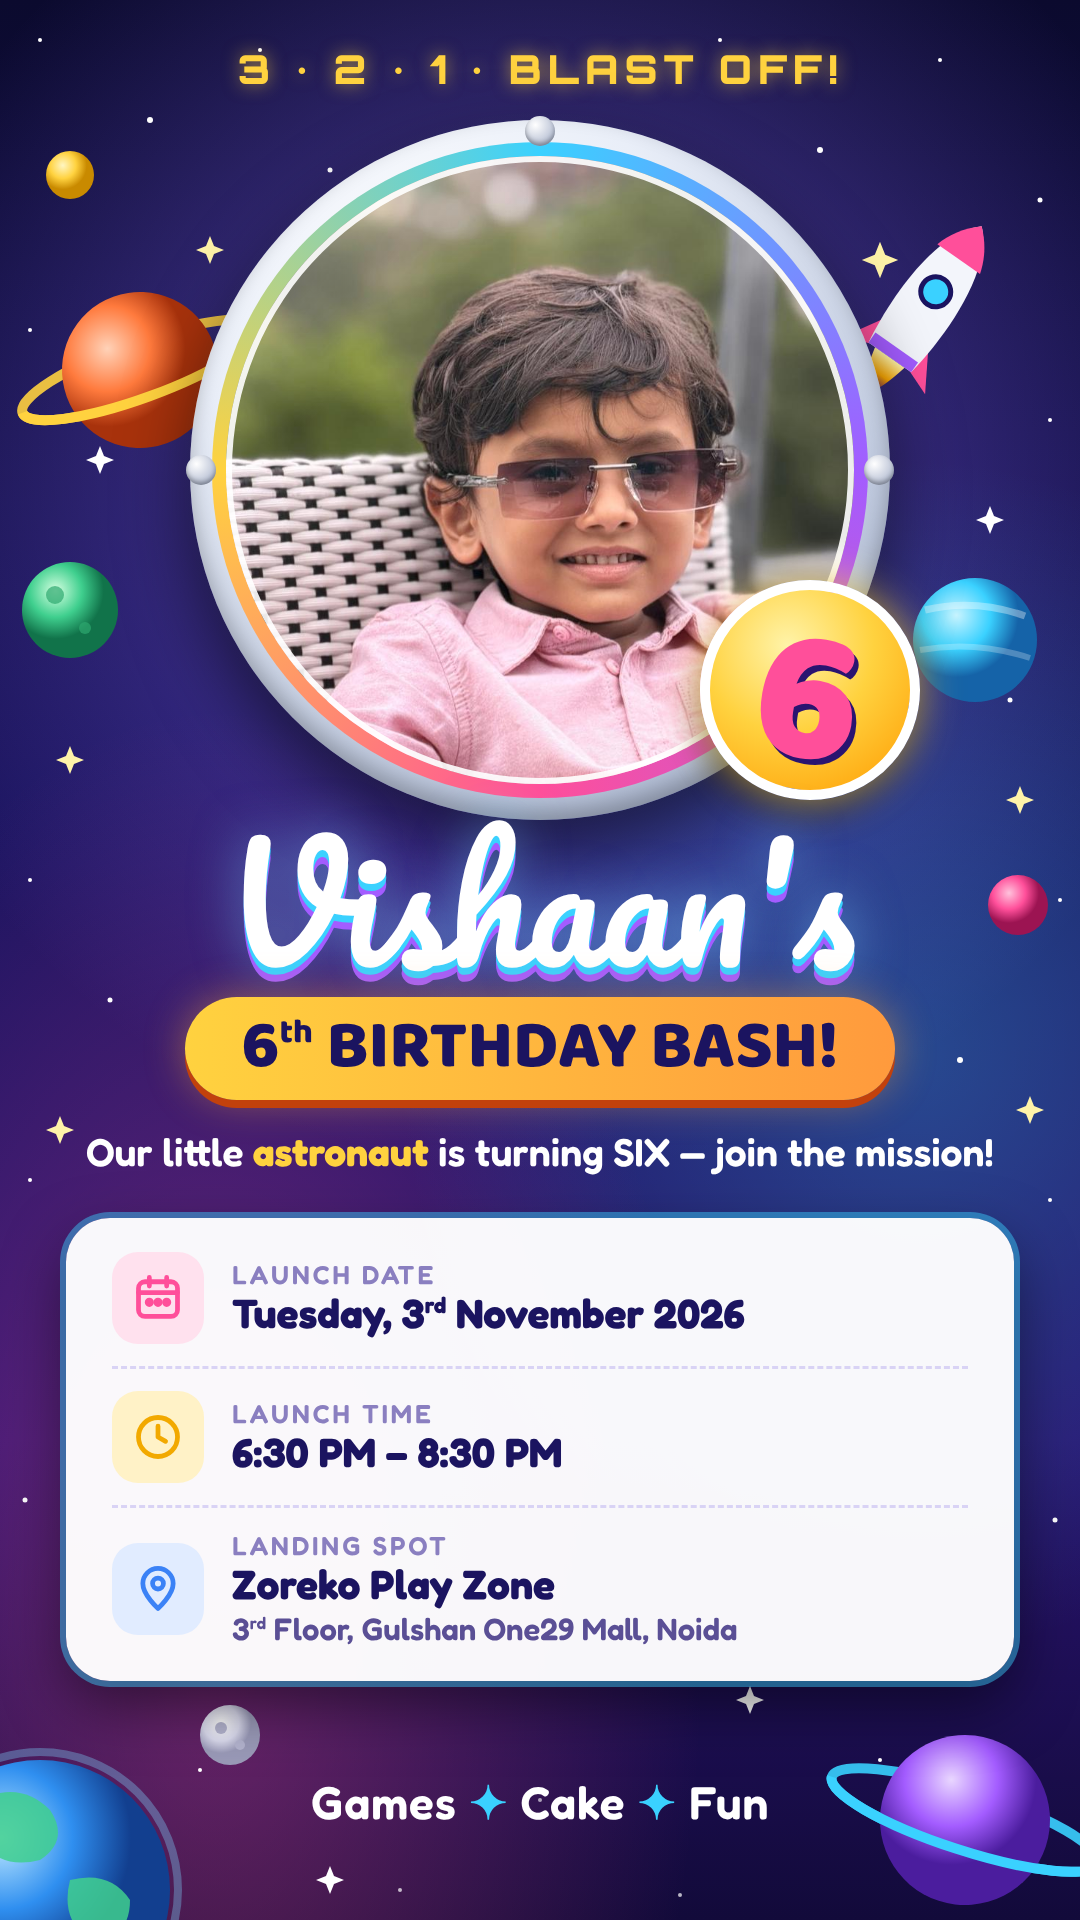
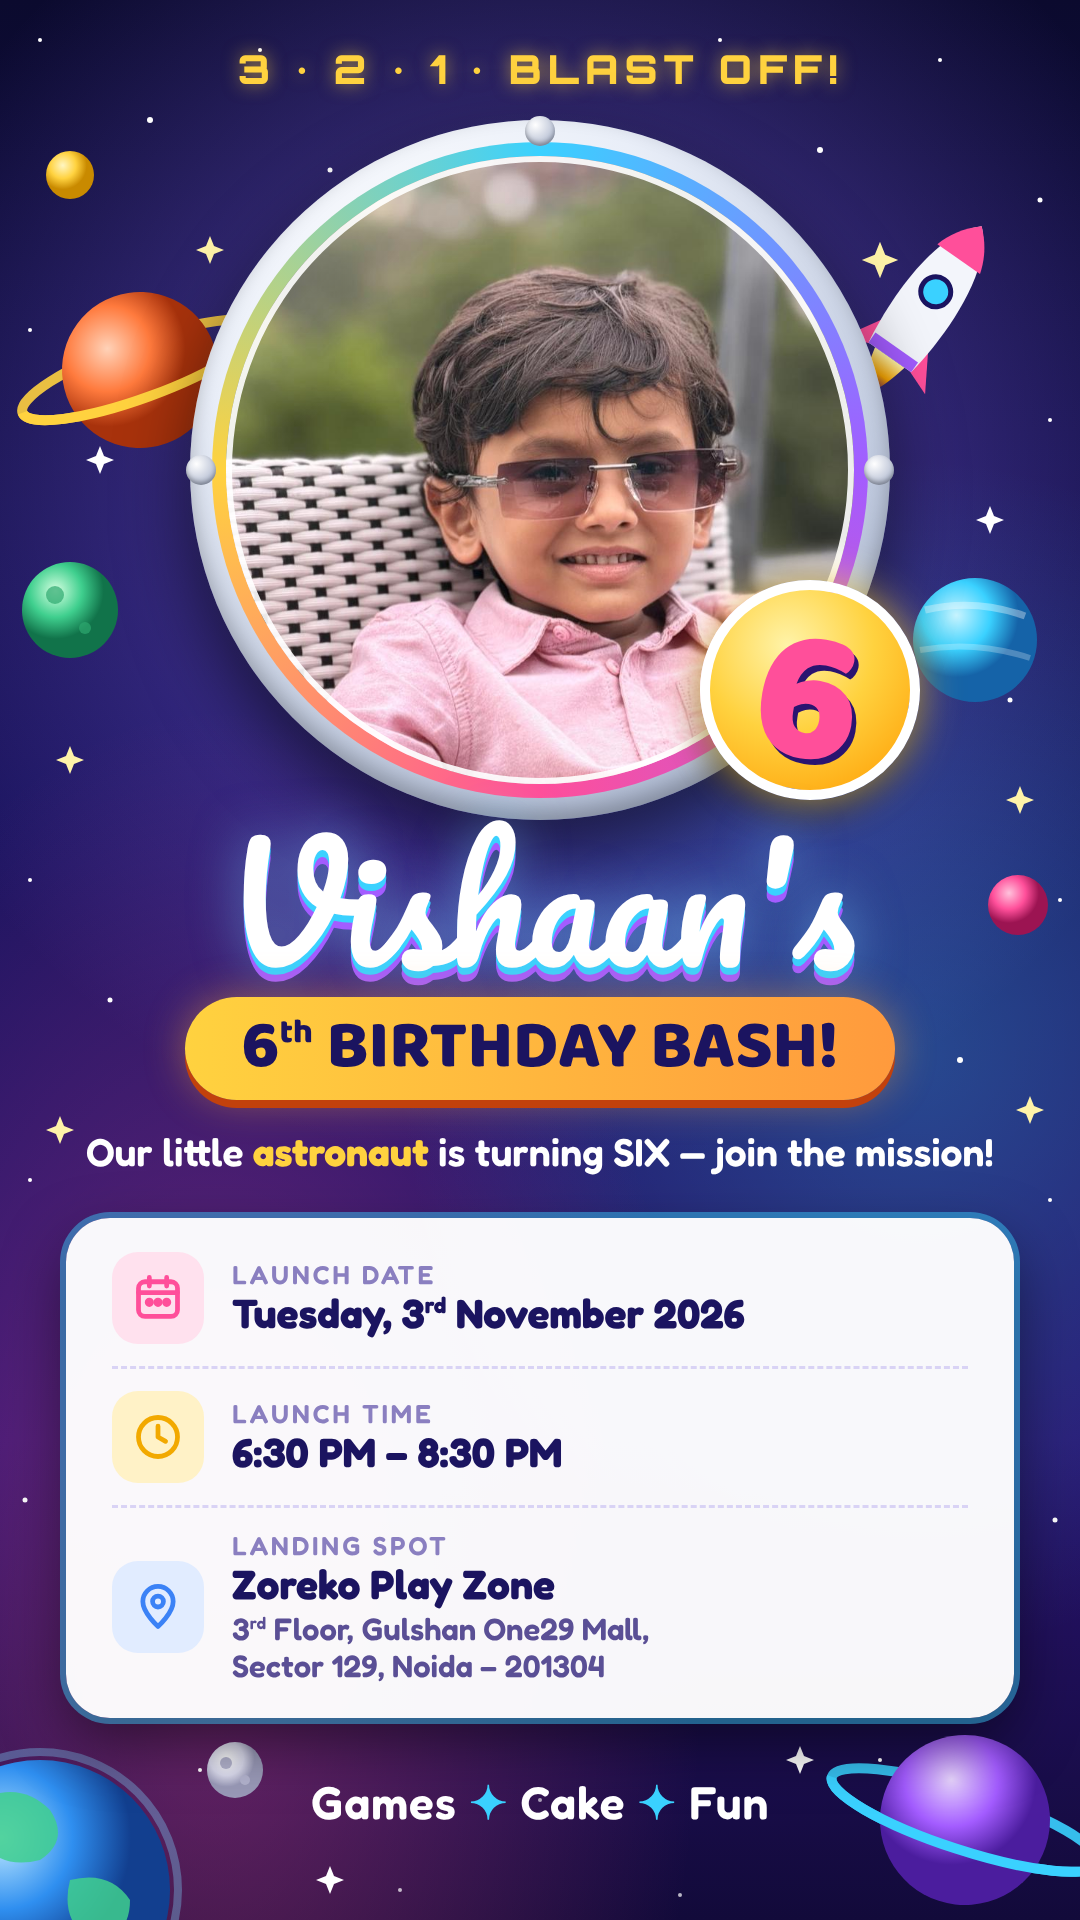
Vishaan invite: add Sector 129 and PIN 201304 to venue
Claude-Session: https://claude.ai/code/session_01TUFe61nJr8jrfSQs2VVnqs

Changed region(s): [[0.0611, 0.7812, 0.9472, 0.9375]]

diff --git a/invites/vishaan-6th-birthday/invite.html b/invites/vishaan-6th-birthday/invite.html
@@ -93,7 +93,7 @@
       <use href="#st" x="70" y="760"/><use href="#st" x="1020" y="800"/><use href="#st" x="60" y="1130"/><use href="#st" x="1030" y="1110"/>
     </g>
     <g fill="#fff">
-      <use href="#st" x="100" y="460"/><use href="#st" x="990" y="520"/><use href="#st" x="330" y="1880"/><use href="#st" x="750" y="1700"/>
+      <use href="#st" x="100" y="460"/><use href="#st" x="990" y="520"/><use href="#st" x="330" y="1880"/><use href="#st" x="800" y="1760"/>
     </g>
 
     <!-- Saturn-style planet top-left -->
@@ -107,8 +107,8 @@
     <path d="M925 610 q50 -12 100 6" stroke="#ffffff" stroke-opacity=".35" stroke-width="7" fill="none"/>
     <path d="M920 650 q55 -10 110 8" stroke="#ffffff" stroke-opacity=".25" stroke-width="6" fill="none"/>
     <!-- moon left -->
-    <circle cx="230" cy="1735" r="30" fill="url(#moon)"/>
-    <circle cx="221" cy="1728" r="6" fill="#b4b4cf"/><circle cx="240" cy="1745" r="5" fill="#b4b4cf"/>
+    <circle cx="235" cy="1770" r="28" fill="url(#moon)"/>
+    <circle cx="226" cy="1763" r="6" fill="#b4b4cf"/><circle cx="245" cy="1780" r="5" fill="#b4b4cf"/>
     <!-- small pink planet -->
     <circle cx="1018" cy="905" r="30" fill="url(#pl3)"/>
     <!-- extra planets -->
@@ -187,7 +187,7 @@
       <div class="ic" style="background:#e1ecff">
         <svg viewBox="0 0 24 24" fill="none" stroke="#3b82f6" stroke-width="2.2" stroke-linecap="round" stroke-linejoin="round"><path d="M12 21s-7-6.2-7-11.5a7 7 0 0 1 14 0C19 14.8 12 21 12 21z"/><circle cx="12" cy="9.5" r="2.5"/></svg>
       </div>
-      <div><div class="k">Landing Spot</div><div class="v">Zoreko Play Zone</div><div class="sub">3<sup>rd</sup> Floor, Gulshan One29 Mall, Noida</div></div>
+      <div><div class="k">Landing Spot</div><div class="v">Zoreko Play Zone</div><div class="sub">3<sup>rd</sup> Floor, Gulshan One29 Mall,<br>Sector 129, Noida – 201304</div></div>
     </div>
   </div>
 
